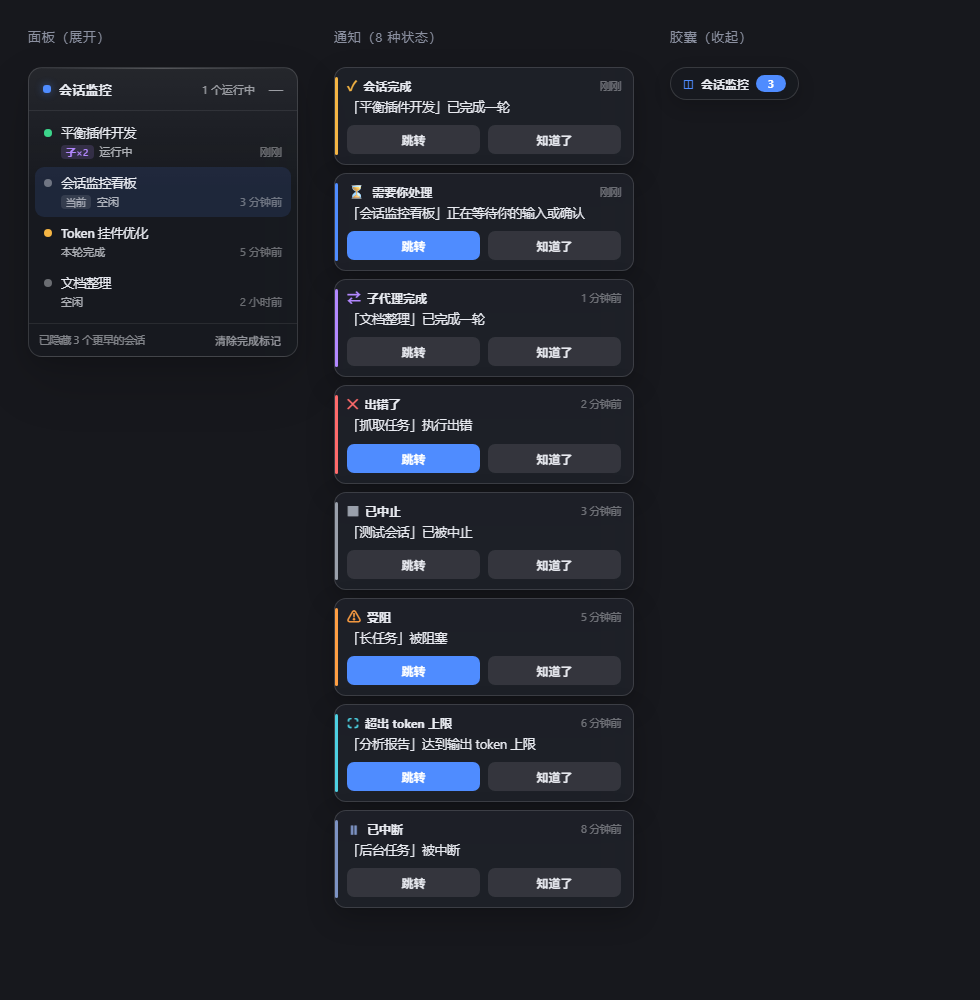
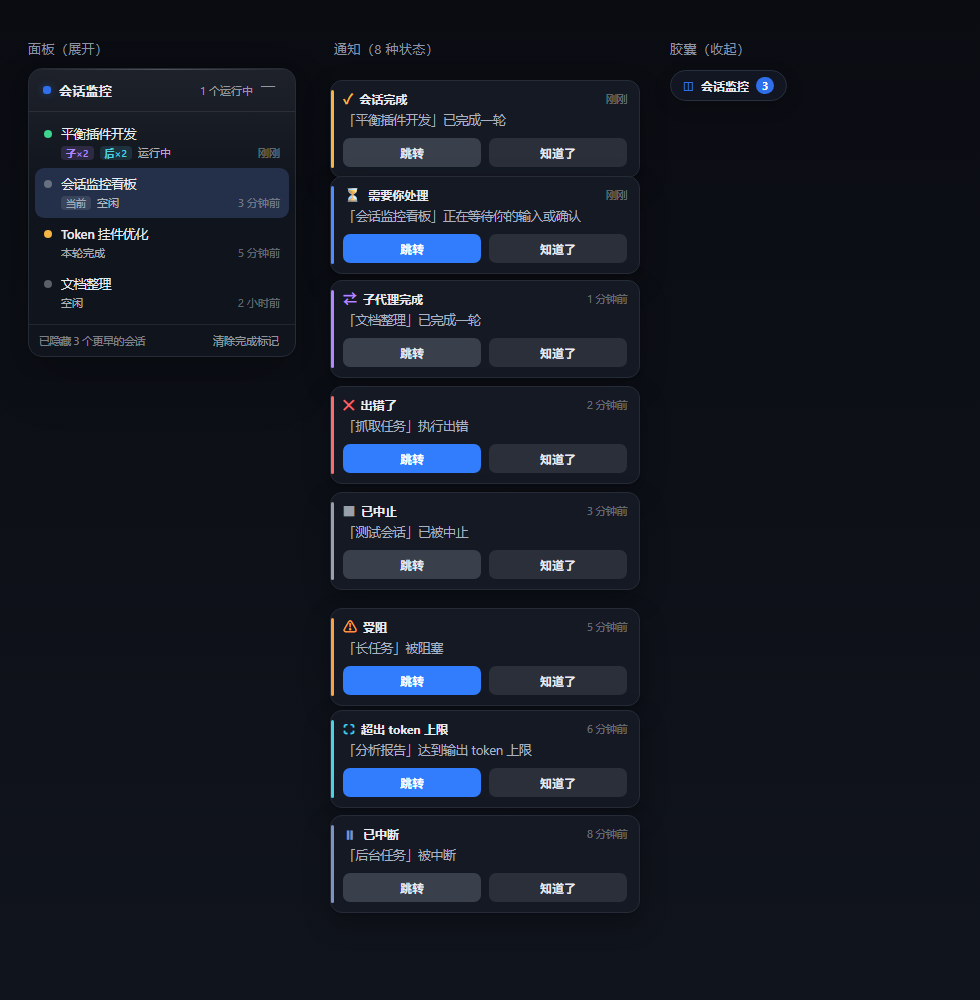
feat: 会话监控列表显示后台执行任务数（后×N 徽标），点击系统通知同步关闭页面提醒条
- 每行按 session/jobs 镜像统计执行中（running/stopping）的后台任务，新增青色 后×N 徽标
- 点击浏览器通知跳转会话时，同时关闭页面内对应会话的 toast 提醒条
- 更新双语 README 与预览图（面板第一行展示 后×2）

diff --git a/packages/dsh-client-ui-session-monitor/src/client/SessionMonitorWidget.tsx b/packages/dsh-client-ui-session-monitor/src/client/SessionMonitorWidget.tsx
@@ -426,6 +426,27 @@ export function SessionMonitorWidget(props: SessionMonitorWidgetProps) {
     return map
   }, [sessions])
 
+  /**
+   * Live background-job count per session (shown as a 后×N badge on the row),
+   * mirrored from the runtime's `session/jobs` mirror (`jobsBySession`). Only
+   * still-executing jobs (`running` / `stopping`) count: settled jobs
+   * (`completed` / `killed` / `failed`) linger in the registry until the owner
+   * session is disposed, so including them would show stale totals.
+   */
+  const runningJobsBySession = useMemo(() => {
+    const map = new Map<string, number>()
+    for (const id of sessions.ids) {
+      const jobs = sessions.jobsBySession[id]
+      if (!jobs || jobs.length === 0) continue
+      let n = 0
+      for (const job of jobs) {
+        if (job.status === 'running' || job.status === 'stopping') n++
+      }
+      if (n > 0) map.set(id, n)
+    }
+    return map
+  }, [sessions])
+
   /** Close the live system notification for one session (no-op when none is showing). */
   function closeBrowserNotify(sessionId: string): void {
     const inst = notifyInstRef.current.get(sessionId)
@@ -449,7 +470,8 @@ export function SessionMonitorWidget(props: SessionMonitorWidgetProps) {
    * the in-widget toast: only fires when the Notification API exists and the
    * permission is granted. Same-session notifications share a `tag`, so the
    * browser replaces the older one instead of stacking. Clicking the
-   * notification jumps to the session (and focuses the window).
+   * notification focuses the window, jumps to the session, and dismisses the
+   * matching in-page toasts — the click acknowledges that finished round.
    */
   function sendBrowserNotify(title: string, body: string, sessionId: string): void {
     try {
@@ -464,18 +486,27 @@ export function SessionMonitorWidget(props: SessionMonitorWidgetProps) {
       n.onclose = () => { notifyInstRef.current.delete(sessionId) }
       n.onclick = () => {
         // Clicking the notification: focus the window, jump to the session
-        // (which also clears its "round done" mark), and always dismiss the
-        // notification itself — `close()` runs even if the jump throws.
+        // (which also clears its "round done" mark and closes the notification
+        // itself — `close()` runs even if the jump throws), then drop the
+        // matching in-page toasts: the click acknowledges that finished round,
+        // so the toast's own 跳转/知道了 would be redundant.
         try { window.focus() } catch { /* focus unavailable */ }
         try { handleOpen(sessionId) } finally {
           try { n.close() } catch { /* notification already gone */ }
         }
+        dismissSessionToasts(sessionId)
       }
     } catch { /* notification unavailable */ }
   }
 
   function dismissToast(key: number): void {
     setToasts((prev) => prev.filter((toast) => toast.key !== key))
+  }
+
+  /** Dismiss every in-page toast belonging to one session — the finished round
+   *  was acknowledged elsewhere (currently: the system notification's click). */
+  function dismissSessionToasts(sessionId: string): void {
+    setToasts((prev) => prev.filter((toast) => toast.sessionId !== sessionId))
   }
 
   function clearDone(): void {
@@ -597,6 +628,7 @@ export function SessionMonitorWidget(props: SessionMonitorWidgetProps) {
               const isCurrent = row.id === currentId
               const done = doneIds.has(row.id)
               const subRunning = runningSubagentsByParent.get(row.id) ?? 0
+              const jobsRunning = runningJobsBySession.get(row.id) ?? 0
               return (
                 <div
                   key={row.id}
@@ -618,6 +650,9 @@ export function SessionMonitorWidget(props: SessionMonitorWidgetProps) {
                       {isCurrent ? <span className={css.badge}>{t('current')}</span> : null}
                       {subRunning > 0
                         ? <span className={[css.badge, css.subBadge].filter(Boolean).join(' ')}>{t('subagentsRunning', { n: String(subRunning) })}</span>
+                        : null}
+                      {jobsRunning > 0
+                        ? <span className={[css.badge, css.jobsBadge].filter(Boolean).join(' ')}>{t('jobsRunning', { n: String(jobsRunning) })}</span>
                         : null}
                       <span className={css.status}>
                         {row.running

diff --git a/packages/dsh-client-ui-session-monitor/src/client/locales.ts b/packages/dsh-client-ui-session-monitor/src/client/locales.ts
@@ -16,6 +16,7 @@ export type SessionMonitorKey =
   | 'pendingInput'
   | 'subagent'
   | 'subagentsRunning'
+  | 'jobsRunning'
   | 'current'
   | 'collapse'
   | 'expand'
@@ -86,6 +87,7 @@ export const zh: Record<SessionMonitorKey, string> = {
   pendingInput: '等待输入',
   subagent: '子代理',
   subagentsRunning: '子×{n}',
+  jobsRunning: '后×{n}',
   current: '当前',
   collapse: '收起',
   expand: '点击展开',
@@ -157,6 +159,7 @@ export const en: Record<SessionMonitorKey, string> = {
   pendingInput: 'Waiting for input',
   subagent: 'Subagent',
   subagentsRunning: 'sub×{n}',
+  jobsRunning: 'bg×{n}',
   current: 'Current',
   collapse: 'Collapse',
   expand: 'Click to expand',

diff --git a/packages/dsh-client-ui-session-monitor/src/client/SessionMonitorWidget.module.css b/packages/dsh-client-ui-session-monitor/src/client/SessionMonitorWidget.module.css
@@ -217,6 +217,14 @@
   font-weight: 600;
 }
 
+/* "后×N" badge: how many background tasks this session still has executing.
+   Cyan echoes the background-work accent — informational, never a status color. */
+.jobsBadge {
+  background: color-mix(in srgb, #4dd0e1 14%, transparent);
+  color: #4dd0e1;
+  font-weight: 600;
+}
+
 .status {
   font-size: 11px;
   color: var(--dsw-alias-label-secondary, rgba(232, 234, 240, 0.72));

diff --git a/packages/dsh-client-ui-session-monitor/README.zh.md b/packages/dsh-client-ui-session-monitor/README.zh.md
@@ -21,7 +21,8 @@
   时间。**可配置的时间范围**（默认最近 1 小时）只保留窗口内活跃过的会话——运行中
   的会话始终显示，被隐藏的旧会话数量会有淡色提示。**子代理会话默认过滤**（可在
   配置弹窗里重新开启显示与提醒），但主代理行会显示紧凑的 **子×N** 徽标，表示
-  当前有 N 个子代理正在执行。
+  当前有 N 个子代理正在执行。每行还会显示 **后×N** 徽标——该会话当前在后台
+   执行的任务数（`session/jobs` 镜像，只统计运行中/停止中的任务，已结束的不计）。
 - **完成一轮主动提醒**：监控 `running` 由 true→false 的边沿（一次边沿 = 完成
   一轮，goal 模式的多轮同样适用），弹出提醒条，带**跳转** 与 **知道了** 两个动作。
   **提醒条按状态配色区分**：琥珀色 ✓ 正常完成一轮；蓝色 ✋「需要你处理」——
@@ -31,14 +32,15 @@
   在最上，自动模式堆叠上限 5 条、超出丢最旧）。两种关闭方式：**自动消失**（N 秒后
   自动关闭）与 **需确认**（提醒一直停留直到你确认——同一会话的新一轮会替换旧提醒，
   未确认的提醒不会被新提醒挤掉，堆叠过高时可滚动）。可选提示音。开启**浏览器通知**
-  后系统通知同步按状态使用相同标题。
+  后系统通知同步按状态使用相同标题；点击系统通知会直达会话并同时关闭页面内对应的
+  提醒条（该轮已完成确认，页面提醒不再需要）。
 - **点击跳转**：点击任意列表行——或提醒条上的「跳转」按钮——立即把应用切到该
   会话（`ctx.sessions.open`）。
 - **完成标记**：挂件打开期间完成一轮的会话在列表里带「本轮完成」徽标，直到被
   访问（打开该会话，或点底部「清除完成标记」）。
 - **可配置**：小组件管理页的「配置」弹窗可开关提醒、选择关闭方式与秒数、提示音、
   **浏览器通知**（勾选时浏览器请求授权，开启后完成一轮同时发系统通知，点击通知
-  直达会话，同会话通知自动替换不堆叠）、是否提醒当前会话、是否显示子代理（默认
+  直达会话并同时关闭页面内对应提醒条，同会话通知自动替换不堆叠）、是否提醒当前会话、是否显示子代理（默认
   关）、只显示运行中、**时间范围**（全部 / 15 分钟～24 小时）、是否显示完成标记；
   所有设置与面板位置都持久化到 `localStorage`。开启「只显示运行中」时时间范围
   暂不生效——配置面板会淡化该选项并提示"关掉后立即生效"，值仍可预先配置。
@@ -82,7 +84,7 @@ profile 上提供 `/_dsh/session-monitor/status` 路由）与**浏览器半**（
 挂载后无需配置即可使用：
 
 1. **查看**——面板列出存活会话（子代理默认过滤），运行中的置顶并带呼吸点，
-   头部显示运行中数量。
+   头部显示运行中数量；每行带 **后×N** 徽标显示该会话后台执行任务数。
 2. **跳转**——点击任意列表行，应用立即切到该会话。
 3. **收起 / 缩放**——点头部「—」按钮把面板收成胶囊（点胶囊再次展开）；拖面板
    右下角的缩放手柄可在 0.6×～1.6× 之间缩放。位置与缩放都持久化。

diff --git a/packages/dsh-client-ui-session-monitor/README.md b/packages/dsh-client-ui-session-monitor/README.md
@@ -27,7 +27,9 @@ rounds. Without the host half the widget still works (base notification kinds).
   and a muted line reports how many older sessions were hidden. **Subagent
   sessions are filtered out by default** (the config panel can re-enable
   listing and notifying them), but a parent row shows a compact **子×N** badge
-  while it has N subagents running.
+  while it has N subagents running. Each row also shows a **后×N** badge — how
+  many tasks that session currently has executing in the background (mirrored
+  from `session/jobs`; only running/stopping tasks count, settled ones don't).
 - **Round-completion notifications**: watches `running` true→false edges (one
   edge = one finished round, goal rounds included), and pops a toast
   `「title」已完成一轮` with **跳转** (jump) and **知道了** (dismiss) actions.
@@ -43,7 +45,10 @@ rounds. Without the host half the widget still works (base notification kinds).
   **error**, grey ■ for an **abort**, orange ⚠ for a **blocked** turn and ⇥ for
   a **token-limit** stop. With **browser notification** enabled, a system
   notification is also sent (same per-state titles), permission is requested
-  when you turn it on; clicking the notification jumps to the session;
+  when you turn it on; clicking the notification jumps to the session and
+  dismisses the matching in-page toasts (that round is acknowledged — the
+  page toast's own buttons would be redundant); same-session notifications
+  replace instead of stacking.
   same-session notifications replace instead of stacking.
 - **Jump to session**: clicking any row — or a toast's 跳转 button — switches
   the app to that session immediately (`ctx.sessions.open`).
@@ -100,8 +105,8 @@ web profile restart is required for the host half to be picked up.
 No configuration is needed after mounting:
 
 1. **Watch** — the panel lists the live (non-subagent) sessions; running
-   sessions sit on top with a pulsing dot and the header shows the running
-   count.
+   sessions sit on top with a pulsing dot, the header shows the running count,
+   and each row carries a **后×N** badge with its background-task count.
 2. **Jump** — click any row to switch the app to that session.
 3. **Shrink / zoom** — click the **—** button in the header to collapse the
    panel into a compact pill (tap the pill to expand it again); drag the
